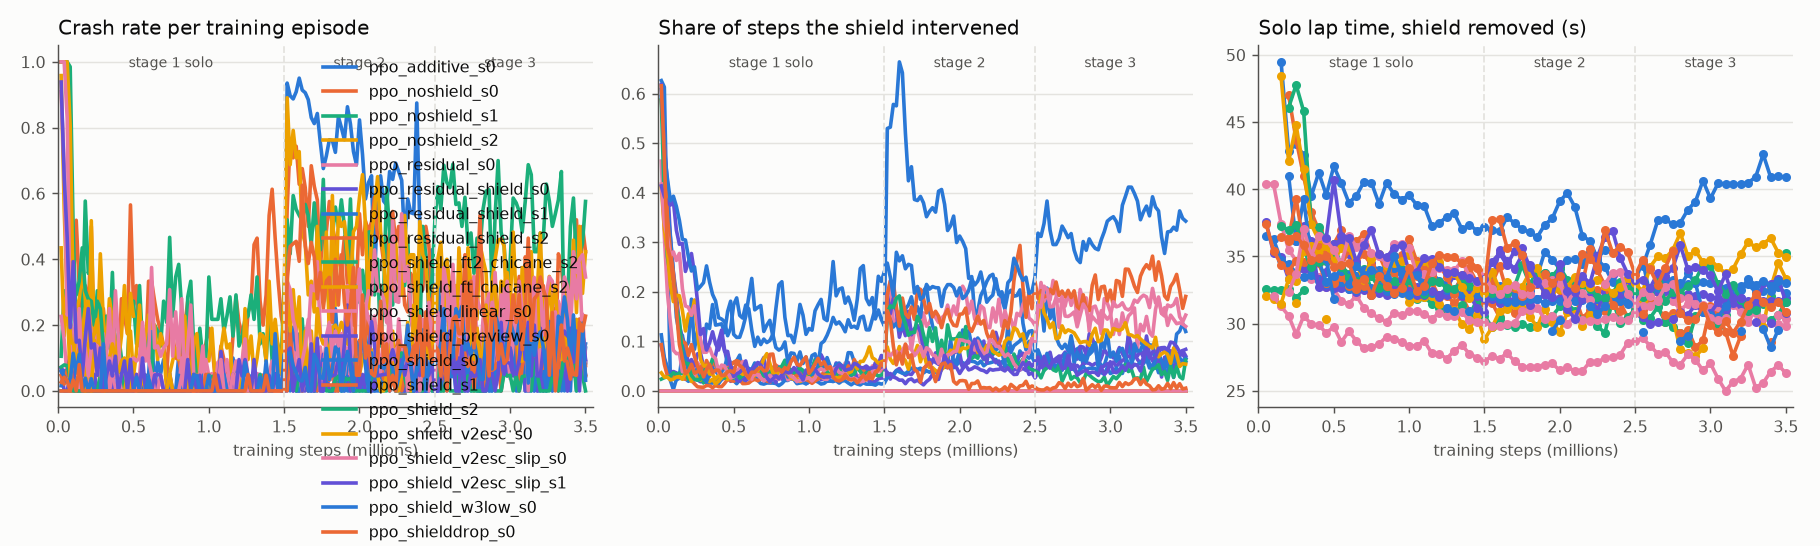
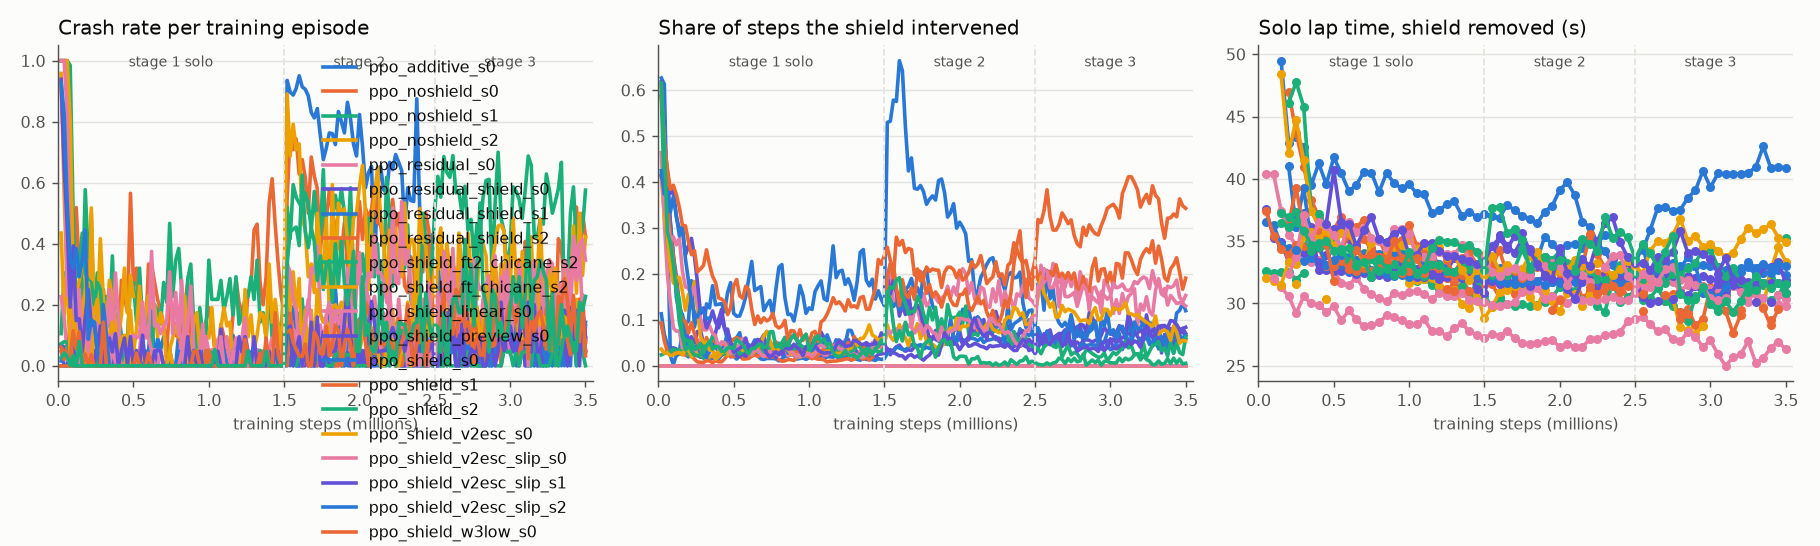
Auto-sync training progress (08:45)

diff --git a/RUNS.md b/RUNS.md
@@ -1,6 +1,6 @@
 # Run registry
 
-Auto-generated by `python -m scripts.update_registry` (2026-11-06 08:24). Each run directory `runs/<run>/` holds `args.json`, `run_info.json` (git commit, command, status), `train_log.csv` (every ~20k steps), `eval_log.csv` (solo laps with/without shield every 50k steps), `model_stage*.zip` + `vecnorm_stage*.pkl` (checkpoint after each curriculum stage). TensorBoard logs (`runs/*/tb`) stay local.
+Auto-generated by `python -m scripts.update_registry` (2026-11-06 08:45). Each run directory `runs/<run>/` holds `args.json`, `run_info.json` (git commit, command, status), `train_log.csv` (every ~20k steps), `eval_log.csv` (solo laps with/without shield every 50k steps), `model_stage*.zip` + `vecnorm_stage*.pkl` (checkpoint after each curriculum stage). TensorBoard logs (`runs/*/tb`) stay local.
 
 ## Training runs
 
@@ -13,7 +13,7 @@ Auto-generated by `python -m scripts.update_registry` (2026-11-06 08:24). Each r
 | `ppo_residual_s0` | ResRace/RaceMOP-style: PPO residual on top of PID+APF (APF shapes every command) | shield=off residual seed=0 tyre=saturated | `5549760` | finished | 3.50M | 14% / 22% / 22% | 50k | 29.80 / 29.80 | 0% | stage1, stage2, stage3 |
 | `ppo_residual_shield_s0` | E23: ResRace-style residual policy trained with the final shield (escape, v2 sim) | shield=cond_fb_grip_esc residual seed=0 tyre=saturated_v2 | `c8b4246` | finished | 3.50M | 0% / 3% / 9% | 50k | 31.40 / 31.88 | 7% | stage1, stage2, stage3 |
 | `ppo_residual_shield_s1` | E23, seed 1 | shield=cond_fb_grip_esc residual seed=1 tyre=saturated_v2 | `1c20b31` | finished | 3.50M | 0% / 2% / 5% | 50k | 31.52 / 32.28 | 5% | stage1, stage2, stage3 |
-| `ppo_residual_shield_s2` | E23, seed 2 | shield=cond_fb_grip_esc residual seed=2 tyre=saturated_v2 | `ab53fbb` | running | 0.74M | 0% / - / - | 50k | 32.60 / 32.84 | 2% | - |
+| `ppo_residual_shield_s2` | E23, seed 2 | shield=cond_fb_grip_esc residual seed=2 tyre=saturated_v2 | `ab53fbb` | running | 1.42M | 0% / - / - | 50k | 32.16 / 32.16 | 2% | - |
 | `ppo_shield_ft2_chicane_s2` | E22b: gentler chicane fine-tuning of seed 2 (lr 5e-5, slip penalty w6 = 1, 300k steps) | shield=cond_fb_grip_esc seed=2 tyre=saturated_v2 | `f167ff5` | running | 0.30M | 27% | 50k | 31.92 / 32.48 | 2% | - |
 | `ppo_shield_ft_chicane_s2` | E22: seed-2 shielded policy fine-tuned 500k steps, half the episodes starting before the chicane | shield=cond_fb_grip_esc seed=2 tyre=saturated_v2 | `e1f1aac` | running | 0.50M | 17% | 50k | 30.36 / 30.36 | 3% | - |
 | `ppo_shield_linear_s0` | Ours on stock linear tyres: does PPO exploit unlimited grip (slip > 15 deg, > 100% mu g)? | shield=cond_fb_grip seed=0 tyre=linear | `4ab467a` | finished | 3.50M | 3% / 7% / 14% | 100k | 25.00 / 26.32 | 14% | stage1, stage2, stage3 |
@@ -24,6 +24,7 @@ Auto-generated by `python -m scripts.update_registry` (2026-11-06 08:24). Each r
 | `ppo_shield_v2esc_s0` | Ours, improved: shield with deadlock escape, trained on the post-spin-fixed simulator | shield=cond_fb_grip_esc seed=0 tyre=saturated_v2 | `1bb44f8` | finished | 3.50M | 4% / 12% / 21% | 150k | 31.48 / 34.96 | 6% | stage1, stage2, stage3 |
 | `ppo_shield_v2esc_slip_s0` | E26: slip-penalty recipe (final shield, v2 sim, w6 = 1), seed 0 | shield=cond_fb_grip_esc seed=0 tyre=saturated_v2 | `7a45b58 +dirty` | finished | 3.50M | 6% / 13% / 22% | 200k | 30.12 / 30.36 | 16% | stage1, stage2, stage3 |
 | `ppo_shield_v2esc_slip_s1` | Final shield + slip penalty (w6 = 1), seed 1 (the seed that learned to slide) | shield=cond_fb_grip_esc seed=1 tyre=saturated_v2 | `7cd44cb` | finished | 3.50M | 7% / 7% / 9% | 450k | 30.08 / 30.80 | 9% | stage1, stage2, stage3 |
+| `ppo_shield_v2esc_slip_s2` | E26: slip-penalty recipe, seed 2 | shield=cond_fb_grip_esc seed=2 tyre=saturated_v2 | `28eceda` | running | 0.34M | 30% / - / - | 250k | 34.28 / 34.28 | 11% | - |
 | `ppo_shield_w3low_s0` | Timidity test: ours with intervention penalty w3 = 0.02 (default 0.1) | shield=cond_fb_grip seed=0 tyre=saturated | `8eb284b` | finished | 3.50M | 2% / 7% / 15% | 450k | 28.24 / 29.56 | 34% | stage1, stage2, stage3 |
 | `ppo_shielddrop_s0` | Shield dropout: shield on in 100% / 50% / 25% of episodes in stages 1/2/3 (does the policy learn safety itself?) | shield=cond_fb_grip seed=0 tyre=saturated | `0d04e46 +dirty` | finished | 3.50M | 0% / 23% / 19% | 150k | 29.32 / 30.84 | 1% | stage1, stage2, stage3 |
 
@@ -49,6 +50,7 @@ Auto-generated by `python -m scripts.update_registry` (2026-11-06 08:24). Each r
 - `ppo_shield_v2esc_s0`: `python -m racing.train --shield cond_fb_grip_esc --tire saturated_v2 --stages 1 2 3 --steps 1500000 1000000 1000000 --n_envs 7 --seed 0 --out runs/ppo_shield_v2esc_s0`
 - `ppo_shield_v2esc_slip_s0`: `python -m racing.train --shield cond_fb_grip_esc --tire saturated_v2 --w6 1.0 --stages 1 2 3 --steps 1500000 1000000 1000000 --n_envs 7 --seed 0 --out runs/ppo_shield_v2esc_slip_s0`
 - `ppo_shield_v2esc_slip_s1`: `python -m racing.train --shield cond_fb_grip_esc --tire saturated_v2 --w6 1.0 --stages 1 2 3 --steps 1500000 1000000 1000000 --n_envs 7 --seed 1 --out runs/ppo_shield_v2esc_slip_s1`
+- `ppo_shield_v2esc_slip_s2`: `python -m racing.train --shield cond_fb_grip_esc --tire saturated_v2 --w6 1.0 --stages 1 2 3 --steps 1500000 1000000 1000000 --n_envs 7 --seed 2 --out runs/ppo_shield_v2esc_slip_s2`
 - `ppo_shield_w3low_s0`: `python -m racing.train --shield cond_fb_grip --w3 0.02 --stages 1 2 3 --steps 1500000 1000000 1000000 --n_envs 7 --seed 0 --out runs/ppo_shield_w3low_s0`
 - `ppo_shielddrop_s0`: `python -m racing.train --shield cond_fb_grip --shield_prob 1.0 0.5 0.25 --stages 1 2 3 --steps 1500000 1000000 1000000 --n_envs 7 --seed 0 --out runs/ppo_shielddrop_s0`
 
@@ -90,6 +92,7 @@ Auto-generated by `python -m scripts.update_registry` (2026-11-06 08:24). Each r
 | `eval_residual_shield_s0.json` | E23: residual policy trained with the shield |
 | `eval_residual_shield_s1.json` | E23 seed 1 |
 | `eval_robust.json` |  |
+| `eval_slip_rec_slip_s0.json` |  |
 | `eval_slip_rec_slip_s1.json` |  |
 | `eval_track2.json` |  |
 | `failure_map.png` | Where on the lap races end, per controller (scripts/plot_failures.py) |

diff --git a/results/training_efficiency.md b/results/training_efficiency.md
@@ -11,7 +11,7 @@ Solo laps every 50k steps, standing start. 'fast' = under 34 s (best classical s
 | `ppo_residual_s0` | off residual | 3500k | 50k | 350k | 259 | 995 (4141) | 29.80 |
 | `ppo_residual_shield_s0` | cond_fb_grip_esc residual tyre=saturated_v2 | 3500k | 50k | 200k | 1 | 133 (3568) | 31.40 |
 | `ppo_residual_shield_s1` | cond_fb_grip_esc residual tyre=saturated_v2 | 3500k | 50k | 250k | 0 | 81 (3545) | 31.52 |
-| `ppo_residual_shield_s2` | cond_fb_grip_esc residual tyre=saturated_v2 | 740k | 50k | 200k | 0 | 0 (736) | 32.60 |
+| `ppo_residual_shield_s2` | cond_fb_grip_esc residual tyre=saturated_v2 | 1420k | 50k | 200k | 0 | 0 (1416) | 32.16 |
 | `ppo_shield_ft2_chicane_s2` | cond_fb_grip_esc tyre=saturated_v2 | 300k | 50k | 50k | 9 | 96 (355) | 31.92 |
 | `ppo_shield_ft_chicane_s2` | cond_fb_grip_esc tyre=saturated_v2 | 500k | 50k | 50k | 14 | 94 (547) | 30.36 |
 | `ppo_shield_linear_s0` | cond_fb_grip tyre=linear | 3500k | 100k | 100k | 21 | 373 (4593) | 25.00 |
@@ -22,5 +22,6 @@ Solo laps every 50k steps, standing start. 'fast' = under 34 s (best classical s
 | `ppo_shield_v2esc_s0` | cond_fb_grip_esc tyre=saturated_v2 | 3500k | 150k | 150k | 76 | 497 (3821) | 31.48 |
 | `ppo_shield_v2esc_slip_s0` | cond_fb_grip_esc tyre=saturated_v2 | 3500k | 200k | 200k | 107 | 550 (3905) | 30.12 |
 | `ppo_shield_v2esc_slip_s1` | cond_fb_grip_esc tyre=saturated_v2 | 3500k | 450k | 1000k | 140 | 339 (3740) | 30.08 |
+| `ppo_shield_v2esc_slip_s2` | cond_fb_grip_esc tyre=saturated_v2 | 340k | 250k | - | 171 | 179 (462) | 34.28 |
 | `ppo_shield_w3low_s0` | cond_fb_grip | 3500k | 450k | 500k | 24 | 405 (4981) | 28.24 |
 | `ppo_shielddrop_s0` | cond_fb_grip drop=[1.0, 0.5, 0.25] | 3500k | 150k | 650k | 8 | 561 (4046) | 29.32 |
